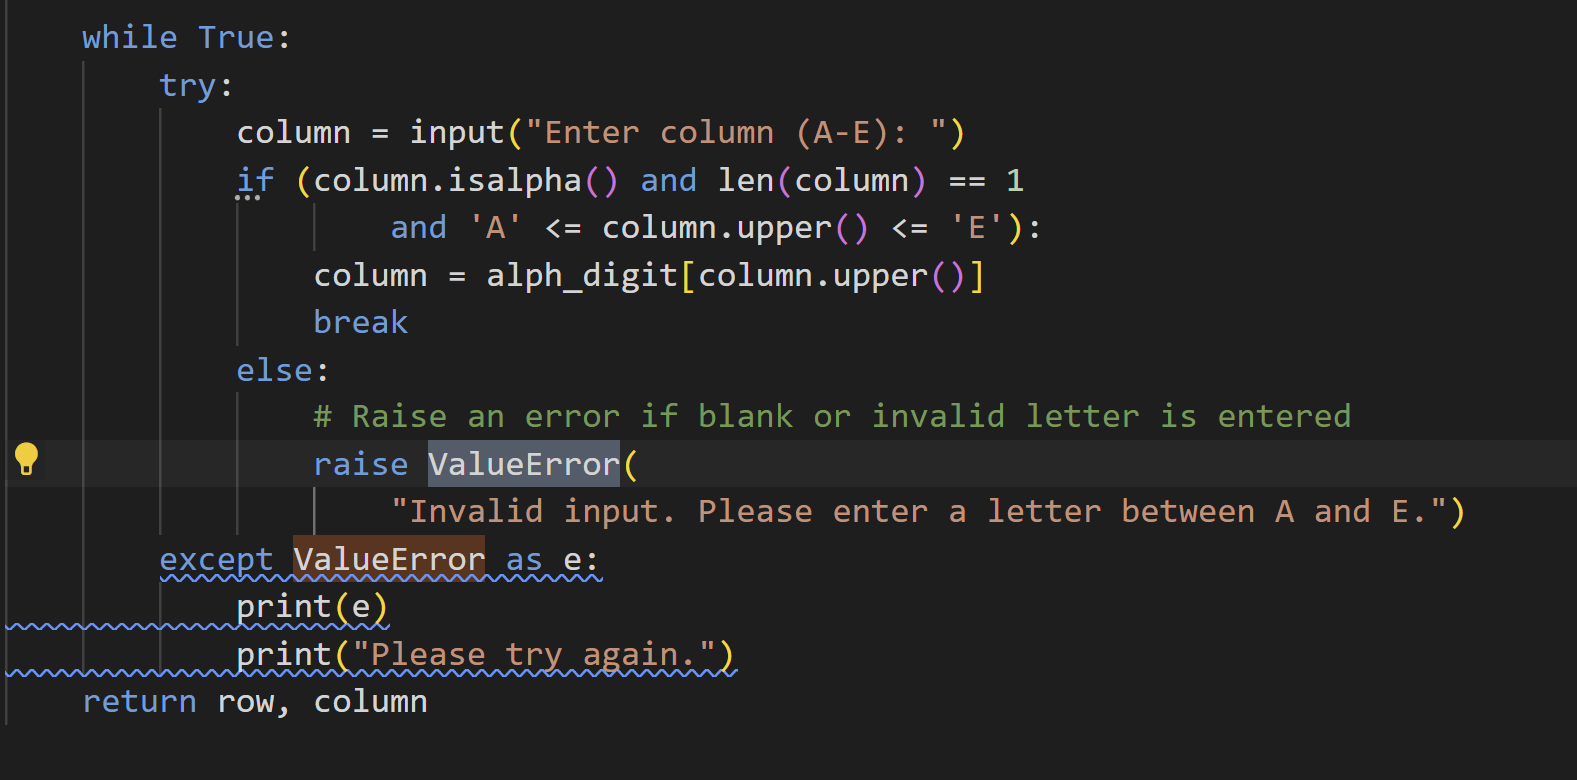
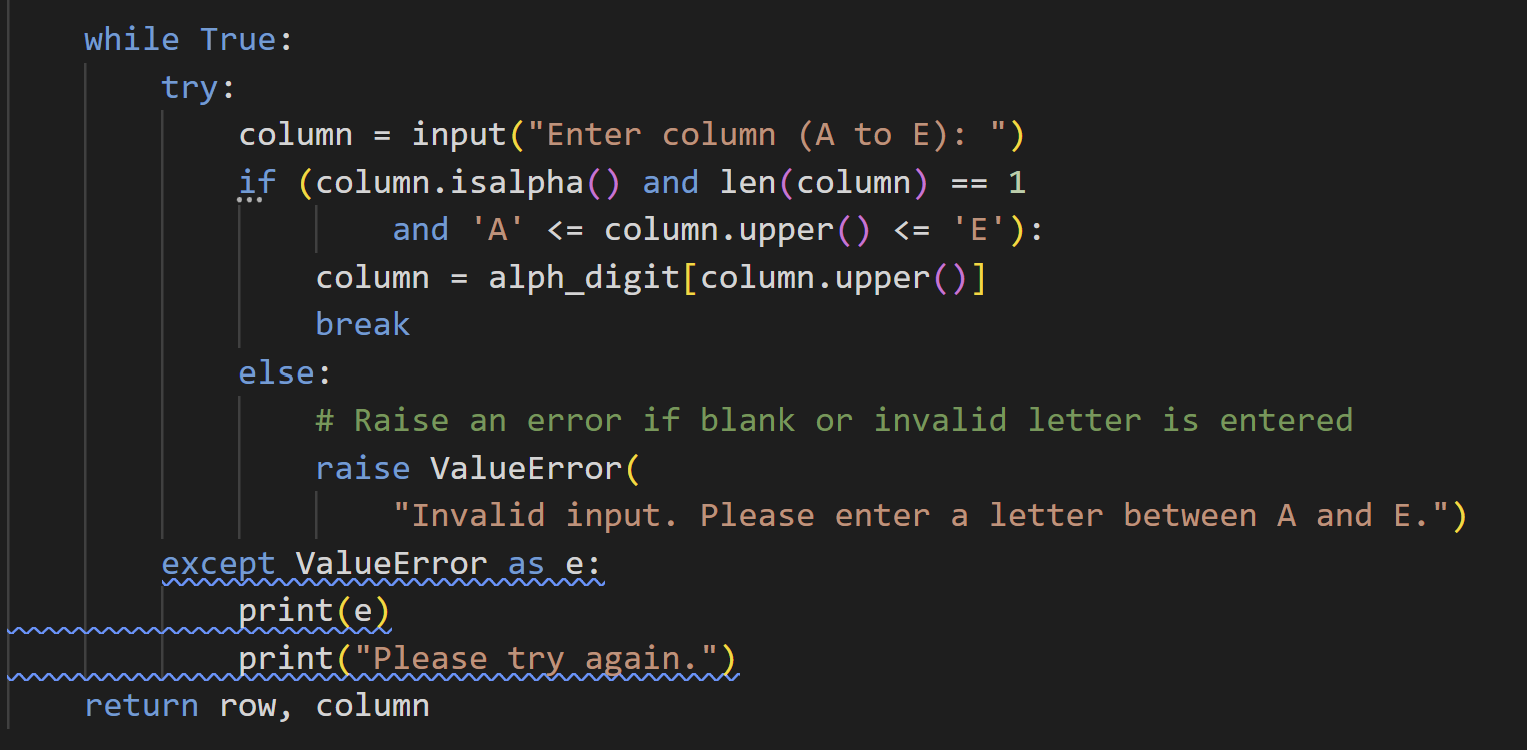
Add Updated images of ValueError for Row and Column

diff --git a/run.py b/run.py
@@ -44,7 +44,7 @@ def welcome():
     \n'!' symbolises and explosion, meaning they are hit targets.
     \n'~' symbolises open water, meaning the shot has missed the enemy ship.
     \nBe aware that the grid is five wide,
-    using integers 1 - 5 and Letters A - E.
+    using integers 1 to 5 and Letters A to E.
     """)
 
 
